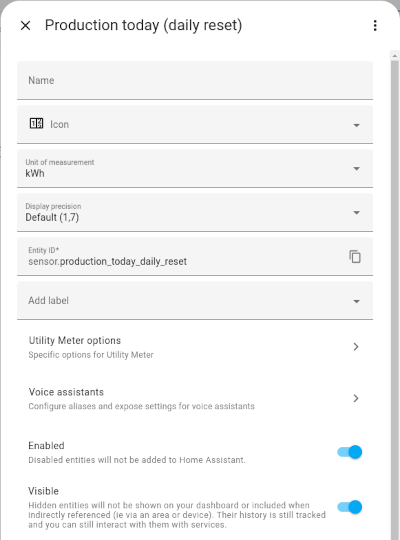
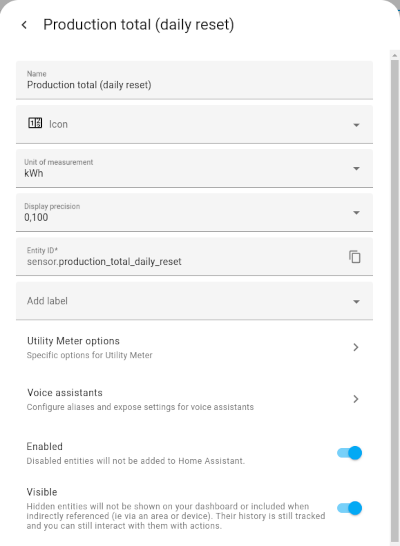
README corrected and extended

diff --git a/README.md b/README.md
@@ -2,7 +2,8 @@
 
 ## Introduction
 
-This plugin provides a Home Assistant integration for all data published by the "Deye solar inverter MQTT bridge".
+This plugin enables Home Assistant to automatically discover all values published by the "Deye Solar Inverter
+MQTT Bridge".
 
 Energy usage diagram provided by Home Assistant filled with data from a "Deye solar inverter MQTT bridge":
 
@@ -12,7 +13,7 @@ Energy usage diagram provided by Home Assistant filled with data from a "Deye so
 
 1. Install Deye solar inverter MQTT bridge
 
-2. Extend the Deye solar inverter MQTT bridge configuration file `config.env` like described in this example:
+2. Extend the Deye solar inverter MQTT bridge configuration file `config.env` as described in this example:
 
     ```bash
     # Home Assistant Integration
@@ -37,13 +38,13 @@ Energy usage diagram provided by Home Assistant filled with data from a "Deye so
     # Example configuration.yaml entry
     utility_meter:
       energy:
-        name: "Production today (daily reset)"
-        source: sensor.deye_inverter_mqtt_production_today
+        name: "Production total (daily reset)"
+        source: sensor.deye_inverter_mqtt_production_total
         cycle: daily
     ```
-   
+
     or graphically 
- 
+
     ![Screenshot of Utility Meter setup part 1](./screenshot_setup_utility_meter_1.png)
 
     ![Screenshot of Utility Meter setup part 2](./screenshot_setup_utility_meter_2.png)
@@ -51,6 +52,19 @@ Energy usage diagram provided by Home Assistant filled with data from a "Deye so
 ## Requirements
 
 * [Deye solar inverter MQTT bridge](https://github.com/kbialek/deye-inverter-mqtt) 2024.07.1
+
+## Troubleshooting
+
+1. Check log of the deye-mqtt container for errors.
+
+    ```bash
+    docker logs deye-mqtt
+    ```
+
+   On demand increase the detail of the logging in `config.env` to `LOG_LEVEL=DEBUG` and restart the container.
+
+2. Checking the content published in the MQTT broker. You can use a graphical tool such as the [MQTT Explorer](https://mqtt-explorer.com/) for this.
+
 
 ## Resources
 
